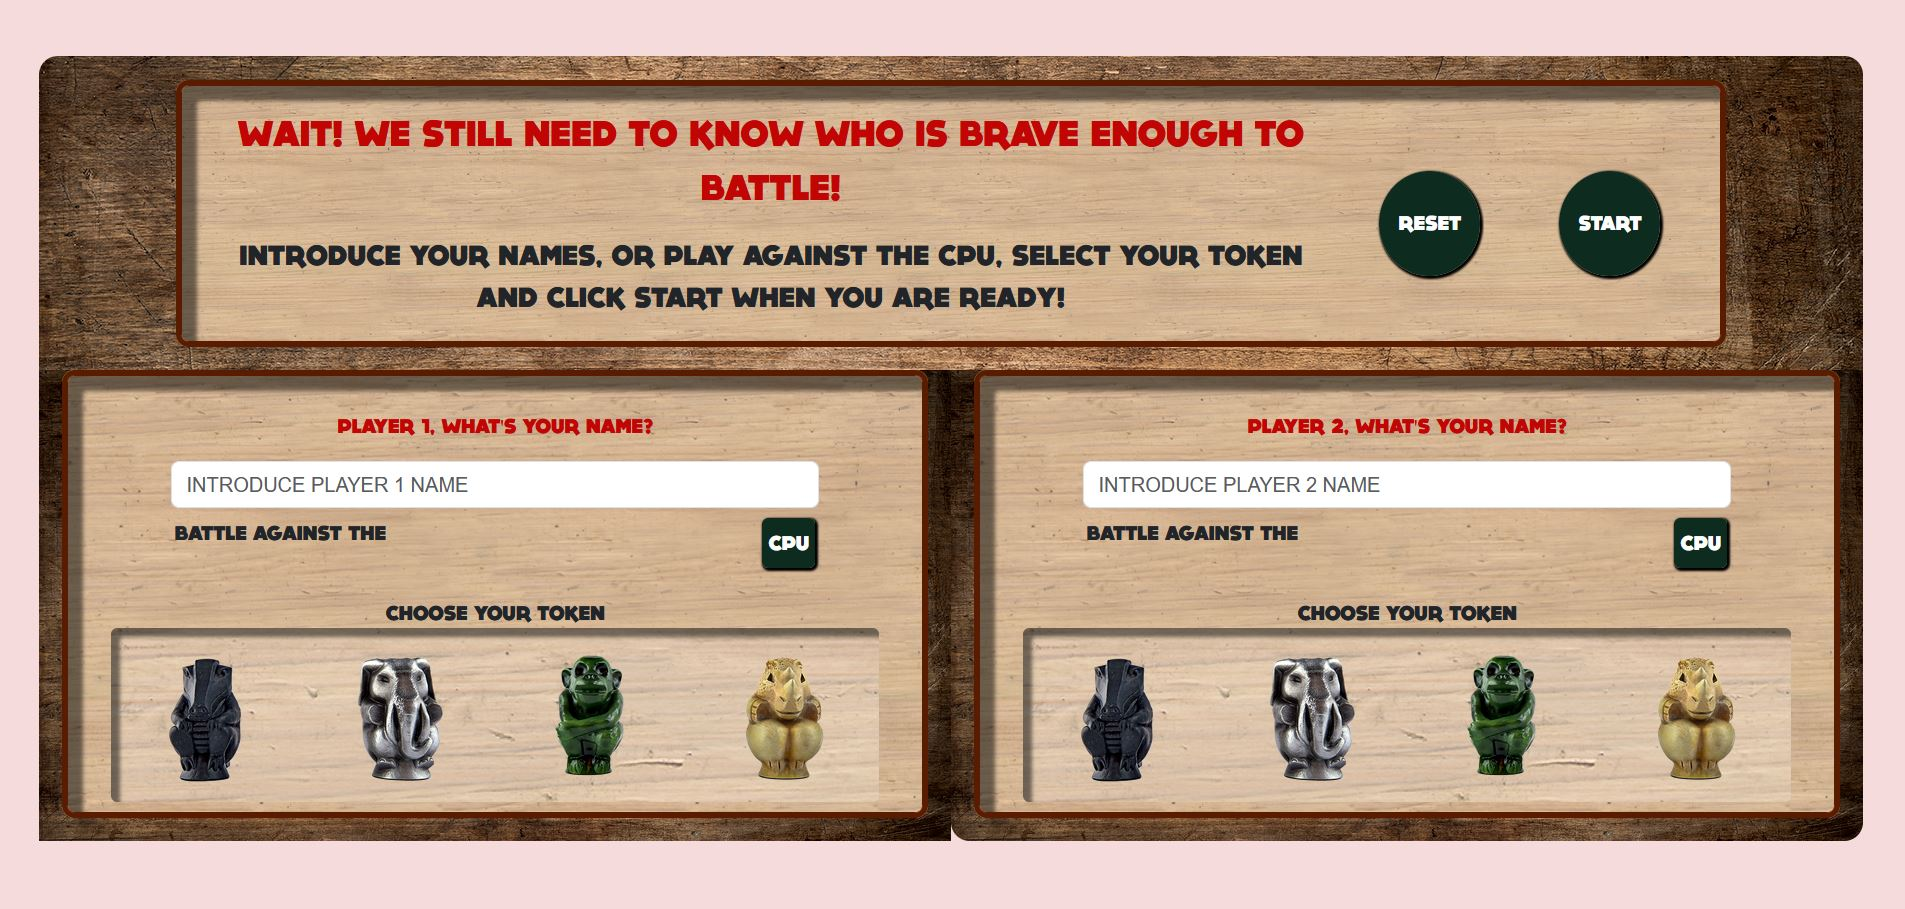
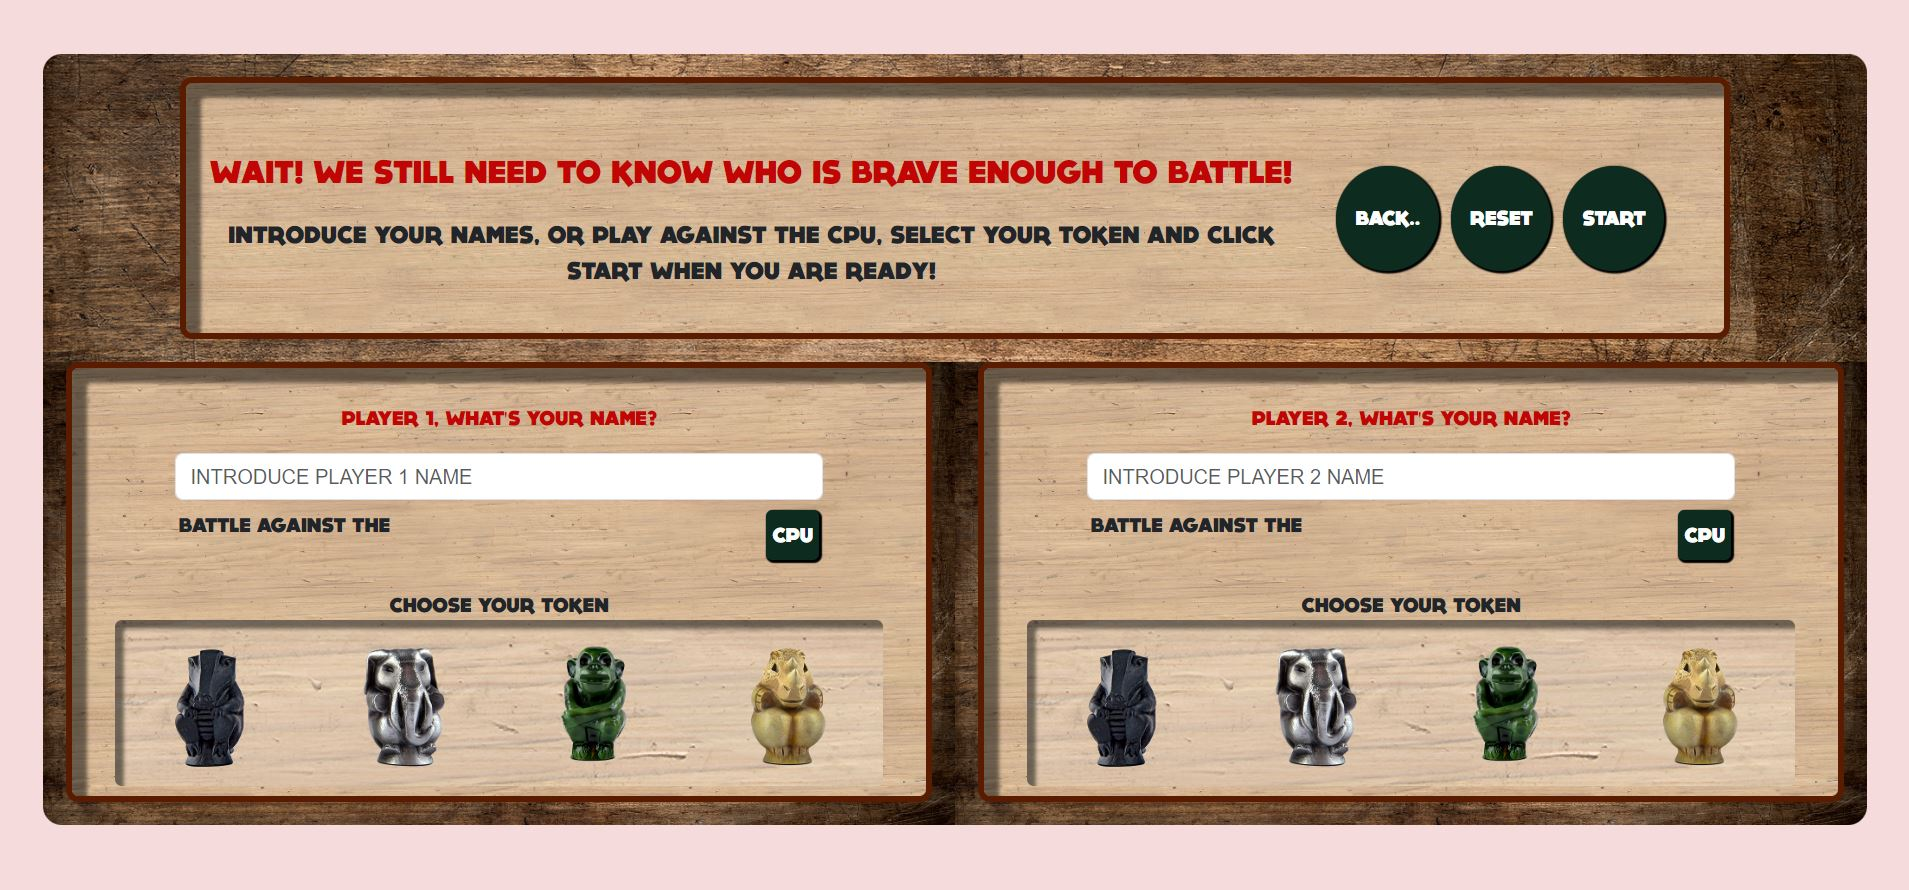
Fixed a bug with the reset button. Added small screen version screenshots to the ReadME

Changed region(s): [[0.0, 0.0607, 0.9911, 0.9404], [0.5575, 0.4551, 0.9291, 0.6371], [0.8362, 0.182, 0.8672, 0.2124]]

diff --git a/css/players.css b/css/players.css
@@ -114,7 +114,7 @@
 }
 
 .buttons-container {
-    width: 50%;
+    width: 90%;
 }
 
 .start-button, .reset-button, .back-button {
@@ -128,13 +128,13 @@
     border: none;
 }
 
-.start-button:hover, .reset-button:hover {
+.start-button:hover, .reset-button:hover, .back-button:hover {
     background-color: rgb(176, 237, 212);
     color: rgb(13, 44, 31);
     cursor:pointer;
 }
 
-.start-button:active {
+.start-button:active, .reset-button:active, .back-button:active {
     box-shadow: none;
 }
 
@@ -194,7 +194,7 @@
     box-shadow: 1px 1px 5px 5px var(--green);
 }
 
-.human, .cpu {
+.cpu {
     padding: 5px 5px;
     background-color: var(--green);
     box-shadow: 1px 1px 1px 1px black;
@@ -205,13 +205,13 @@
     border: none;
 }
 
-.human:hover, .cpu:hover {
+.cpu:hover {
     background-color: rgb(176, 237, 212);
     color: var(--green);
     cursor: pointer;
 }
 
-.human:active, .cpu:active{
+.cpu:active{
     box-shadow: none;
 }
 
@@ -230,9 +230,7 @@
         font-size: 0.8rem;
         display: block;
     }
-
 }
-
 
 @media (min-width: 992px) {
 
@@ -278,7 +276,7 @@
         font-size: 1rem;
     }
     
-    .start-button:hover {
+    .start-button:hover, .back-button:hover {
         background-color: rgb(176, 237, 212);
         color: rgb(13, 44, 31);
         cursor:pointer;

diff --git a/pages/players.html b/pages/players.html
@@ -20,7 +20,7 @@
                         <p class="ps-lg-3 pe-lg-3 m-0 p-black-title">INTRODUCE YOUR NAMES, OR PLAY AGAINST THE CPU, SELECT YOUR TOKEN AND CLICK START WHEN YOU ARE READY!</p>
                     </div>
                     <div class="buttons-container me-3 me-lg-5 ps-lg-4 d-flex justify-content-between">
-                        <a class="back-button d-flex align-items-center" id="reset-game-btn" href="../index.html" type="button">BACK..</a>
+                        <a class="back-button d-flex align-items-center" id="back-game-btn" href="../index.html" type="button">BACK..</a>
                         <div class="reset-button d-flex align-items-center" id="reset-game-btn" type="button">RESET</div>
                         <div class="start-button d-flex align-items-center" id="start-game-btn" type="button">START</div>
                     </div>   

diff --git a/css/game.css b/css/game.css
@@ -52,6 +52,8 @@ body {
 .box {
     background-image: linear-gradient(rgba(209, 208, 208, 0.5),
     rgba(210, 210, 210, 0.5)), url("../img/images.jpg");
+    background-repeat: no-repeat;
+    background-size: cover;
     height: 32%;
     width: 32%;
 }

diff --git a/js/players.js b/js/players.js
@@ -1,5 +1,4 @@
 //RESET button
-
 const resetBtn = document.getElementById("reset-game-btn");
 
 const resetPlayersInfo = () =>  {

diff --git a/README.md b/README.md
@@ -58,7 +58,9 @@ To start the game when you are ready just need to click on START. If you forgot 
 |This is the last page, where the winner recieves a congratulations message, and their token shows with a rotating effect. Players can click play again and add their win to the score counter, or click go back to main page.|
 ![image](./img/screenshot8.JPG)
 
-
+|Welcome page - Small screen version|Payers page - Small screen version|Game page - Small screen version|Winner page - Small screen version|
+|-|-|-|-|
+|![image](./img/screenshot12.JPG)|![image](./img/screenshot9.JPG)|![image](./img/screenshot10.JPG)|![image](./img/screenshot11.JPG)|
 
 ### Links
 
